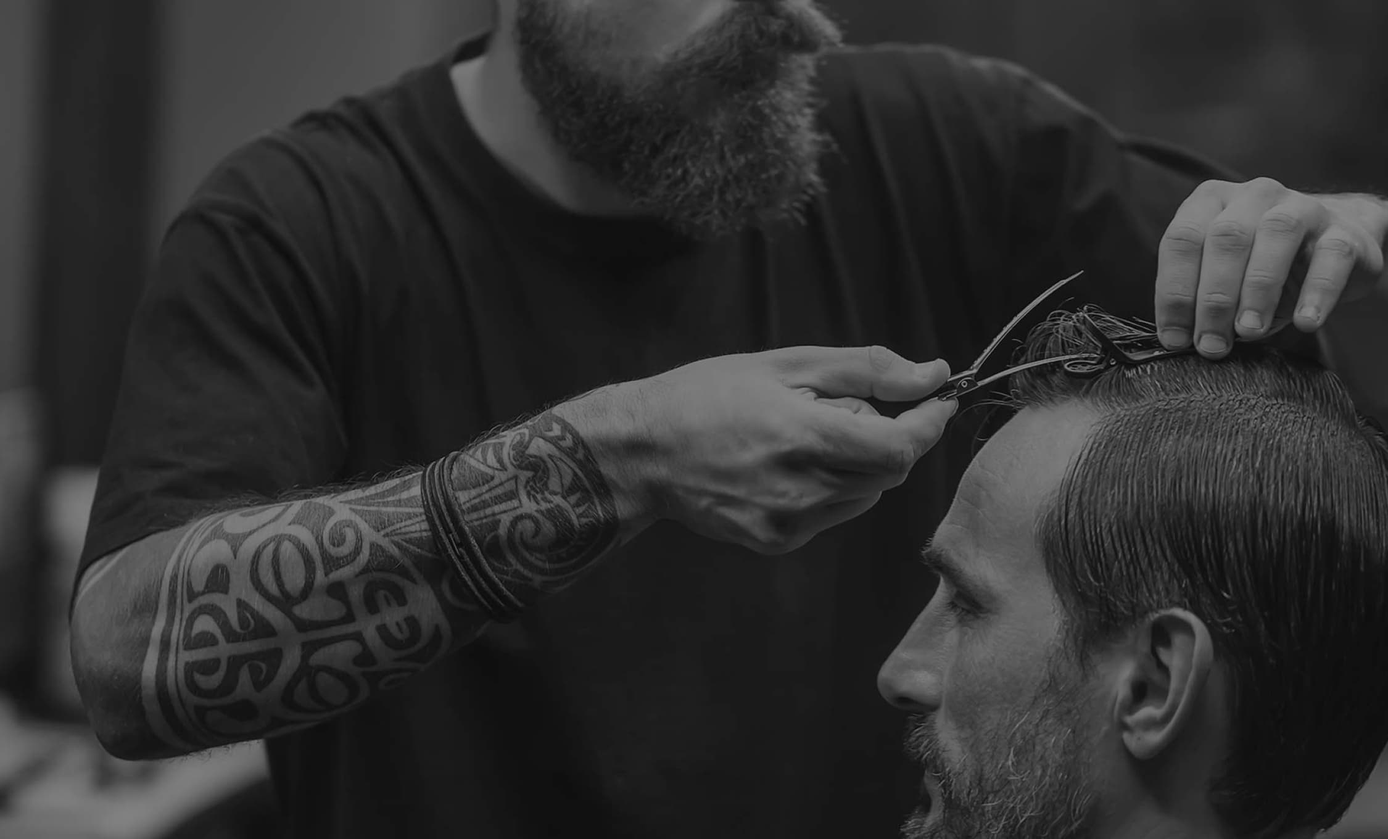
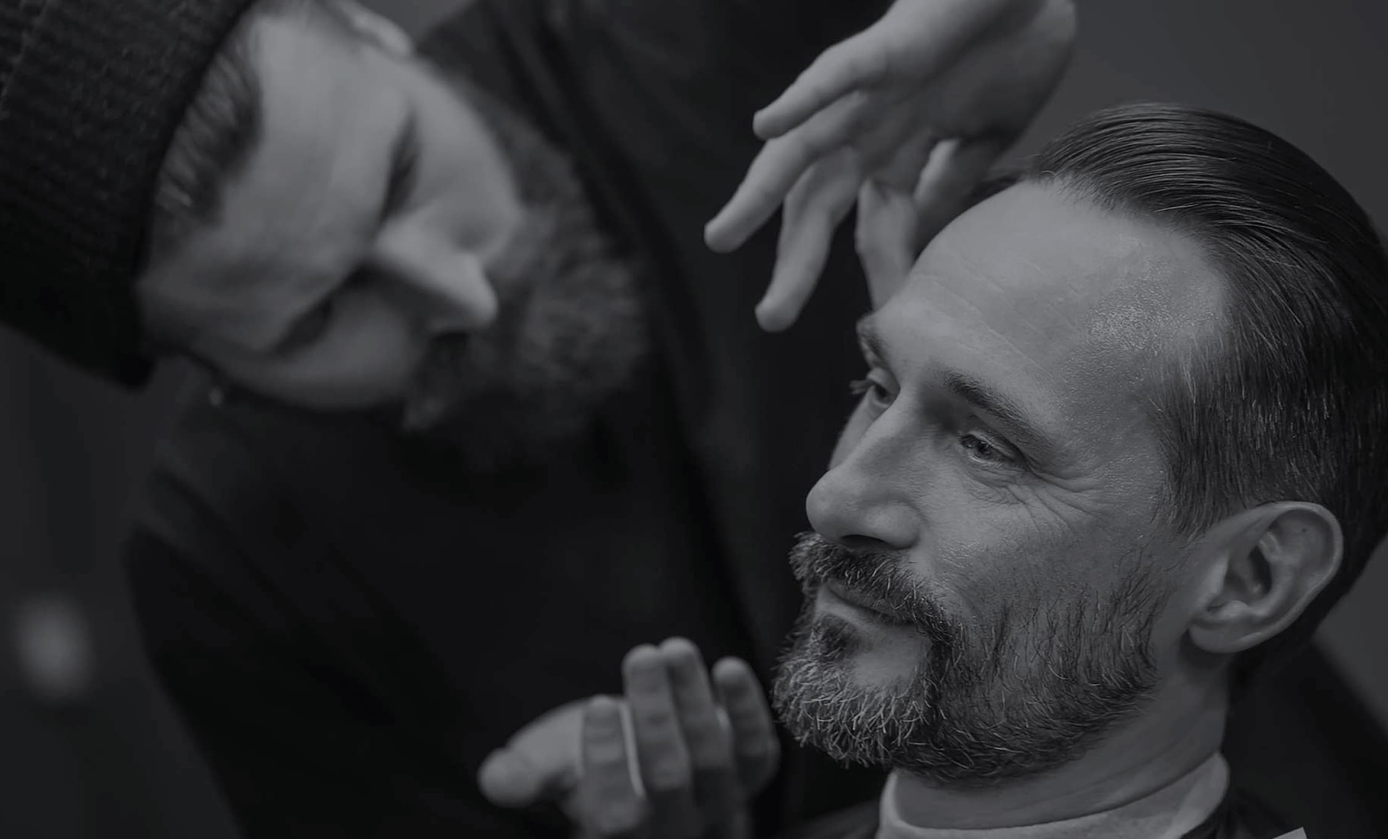
23.02  work

diff --git a/css/main.min.css b/css/main.min.css
@@ -1,1 +1,1 @@
-/*! modern-normalize v1.1.0 | MIT License | https://github.com/sindresorhus/modern-normalize */*,::after,::before{-webkit-box-sizing:border-box;box-sizing:border-box}html{-moz-tab-size:4;-o-tab-size:4;tab-size:4}html{line-height:1.15;-webkit-text-size-adjust:100%}body{margin:0}body{font-family:system-ui,-apple-system,"Segoe UI",Roboto,Helvetica,Arial,sans-serif,"Apple Color Emoji","Segoe UI Emoji"}hr{height:0;color:inherit}abbr[title]{-webkit-text-decoration:underline dotted;text-decoration:underline dotted}b,strong{font-weight:bolder}code,kbd,pre,samp{font-family:ui-monospace,SFMono-Regular,Consolas,"Liberation Mono",Menlo,monospace;font-size:1em}small{font-size:80%}sub,sup{font-size:75%;line-height:0;position:relative;vertical-align:baseline}sub{bottom:-0.25em}sup{top:-0.5em}table{text-indent:0;border-color:inherit}button,input,optgroup,select,textarea{font-family:inherit;font-size:100%;line-height:1.15;margin:0}button,select{text-transform:none}[type=button],[type=reset],[type=submit],button{-webkit-appearance:button}::-moz-focus-inner{border-style:none;padding:0}:-moz-focusring{outline:1px dotted ButtonText}:-moz-ui-invalid{box-shadow:none}legend{padding:0}progress{vertical-align:baseline}::-webkit-inner-spin-button,::-webkit-outer-spin-button{height:auto}[type=search]{-webkit-appearance:textfield;outline-offset:-2px}::-webkit-search-decoration{-webkit-appearance:none}::-webkit-file-upload-button{-webkit-appearance:button;font:inherit}summary{display:list-item}body{background:#fff;color:#555;font-family:"Open Sans",sans-serif;font-style:normal;font-weight:400;letter-spacing:.02em}ul{list-style:none;margin:0;padding:0}a{font-family:inherit;text-decoration:none}button{font-family:inherit;padding:0}h1,h2,h3,h4,p{margin:0}img{display:block}.section{padding:84px 0px}@media screen and (min-width: 720px){.section{padding:100px 0px}}@media screen and (min-width: 1200px){.section{padding:130px 0px}}.container{margin:0px auto;padding:0 15px}@media screen and (min-width: 448px){.container{width:448px}}@media screen and (min-width: 720px){.container{width:720px}}@media screen and (min-width: 1200px){.container{width:1200px}}.tomline{outline:1px solid tomato}.container.header{display:-webkit-box;display:-ms-flexbox;display:flex}.social-container{display:-webkit-box;display:-ms-flexbox;display:flex;-webkit-box-orient:vertical;-webkit-box-direction:normal;-ms-flex-direction:column;flex-direction:column;-webkit-box-align:center;-ms-flex-align:center;align-items:center;padding-right:30px;width:100px}.logo{margin-top:32px;margin-bottom:282px}.social-list{position:relative;display:-webkit-box;display:-ms-flexbox;display:flex;gap:40px}.social-list--vertical{-webkit-box-orient:vertical;-webkit-box-direction:normal;-ms-flex-direction:column;flex-direction:column;rotate:-180deg}.social-list__item:first-child::before{content:" ";position:absolute;display:inline-block;background-color:#303030}.social-list__item--vertical:first-child::before{width:1px;height:60px;right:7px;top:-100px}.social-list__link{font-weight:600;font-size:11px;line-height:1.36;letter-spacing:.2em;-webkit-transition:color 200ms;transition:color 200ms;color:#303030}.social-list__link:hover,.social-list__link:focus{color:#ff6c00}.social-list__link--vertical{-webkit-writing-mode:vertical-lr;-ms-writing-mode:tb-lr;writing-mode:vertical-lr}.hero-container{position:relative;width:1070px;height:680px;padding:40px 0px 40px 40px}.slider{top:0;left:0;position:absolute;z-index:-1}.header-nav{display:-webkit-box;display:-ms-flexbox;display:flex;-webkit-box-align:baseline;-ms-flex-align:baseline;align-items:baseline;margin-bottom:192px}.nav-list{display:-webkit-box;display:-ms-flexbox;display:flex;gap:40px}.nav-list__link{color:#fff;-webkit-transition:color 200ms;transition:color 200ms}.nav-list__link:hover,.nav-list__link:focus{color:#ff6c00}.contacts{display:-webkit-box;display:-ms-flexbox;display:flex;-webkit-box-align:baseline;-ms-flex-align:baseline;align-items:baseline;gap:40px;margin-left:auto}.header__tel{color:#fff;-webkit-transition:color 200ms;transition:color 200ms}.header__tel:hover,.header__tel:focus{color:#ff6c00}.button{display:block;width:160px;height:40px;padding:12px 23px;color:#fff;background-color:rgba(0,0,0,0);font-weight:600;font-size:12px;line-height:1.33;text-transform:uppercase;letter-spacing:.09em;border:1px solid #ff6c00;border-radius:25px;-webkit-transition:background-color 200ms,color 200ms;transition:background-color 200ms,color 200ms}.button:hover,.button:focus{background-color:#ff6c00}.button--black{color:#303030}.button--black:hover,.button--black:focus{color:#fff}.subtitle{font-weight:600;font-size:11px;line-height:1.36;letter-spacing:.1em;text-transform:uppercase;color:#303030}.subtitle:before{position:absolute;content:" ";top:6px;left:-80px;width:60px;height:1px;background-color:#303030}.subtitle--grey{color:rgba(157,164,189,.6)}.subtitle--grey:before{background-color:rgba(157,164,189,.6)}.subtitle--white{color:#fff}.subtitle--white:before{background-color:rgba(157,164,189,.6)}.header__subtitle{position:relative;margin-left:140px;margin-bottom:20px}.header__hero{margin-left:60px;margin-bottom:20px;font-family:"Raleway";font-style:normal;font-weight:700;font-size:72px;line-height:1.18;letter-spacing:.05em;color:#fff}.header__slogan{margin-left:60px;margin-bottom:142px;font-weight:400;font-size:18px;line-height:1.67;letter-spacing:.02em;color:#9da4bd}.header-buttons{display:-webkit-box;display:-ms-flexbox;display:flex;-webkit-box-pack:end;-ms-flex-pack:end;justify-content:end;gap:26px}.slider__button{width:60px;padding-bottom:8px;font-weight:600;font-size:11px;line-height:1.36;letter-spacing:.1em;text-align:start;color:rgba(157,164,189,.6);background-color:rgba(0,0,0,0);border:none;border-bottom:1px solid rgba(157,164,189,.6);cursor:pointer}.slider__button:hover,.slider__button:focus{border-bottom:1px solid #fff;color:#fff}.slider__button--right{text-align:end}.container__aboute{display:-webkit-box;display:-ms-flexbox;display:flex;gap:64px}.foto-block{display:-webkit-box;display:-ms-flexbox;display:flex;gap:30px}@media screen and (max-width: 719px){.foto-block{display:none}}@media screen and (min-width: 720px){.foto-block{-webkit-box-orient:vertical;-webkit-box-direction:normal;-ms-flex-direction:column;flex-direction:column}}@media screen and (min-width: 1200px){.foto-block{-webkit-box-orient:horizontal;-webkit-box-direction:normal;-ms-flex-direction:row;flex-direction:row}}.aboute__subtitle{position:relative;margin-bottom:20px;margin-left:80px}.section-title{margin-bottom:20px;font-family:"Raleway";font-style:normal;font-weight:700;font-size:41px;line-height:1.17;letter-spacing:.05em;color:#303030}@media screen and (max-width: 1199px){.section-title--small{font-size:23px}}.section-title--invisible{position:absolute;width:1px;height:1px;margin:-1px;border:0;padding:0;white-space:nowrap;-webkit-clip-path:inset(100%);clip-path:inset(100%);clip:rect(0 0 0 0);overflow:hidden}.section-title--white{color:#fff}.title{margin-bottom:20px;font-size:16px;line-height:1.62;letter-spacing:.02em}@media screen and (min-width: 1200px){.title{font-size:18px;line-height:1.67}}.content{margin-bottom:40px}.foto_block{display:-webkit-box;display:-ms-flexbox;display:flex}.content{max-width:500px;font-size:14px;line-height:1.86;letter-spacing:.02em}.section-price{margin-left:auto;margin-right:auto;background-color:#111319;background-position:center;background-size:cover;background-repeat:no-repeat}@media screen and (max-width: 448px){.section-price{max-width:448px;background-image:url(../img/bgprice-480.png);background-image:-webkit-image-set(url(../img/bgprice-480.png) 1x, url(../img/bgprice-480@2x.png) 2x);background-image:image-set(url(../img/bgprice-480.png) 1x, url(../img/bgprice-480@2x.png) 2x)}}@media screen and (min-width: 449px)and (max-width: 720px){.section-price{max-width:768px;background-image:url(../img/bgprice-768.png);background-image:-webkit-image-set(url(../img/bgprice-768.png) 1x, url(../img/bgprice-768@2x.png) 2x);background-image:image-set(url(../img/bgprice-768.png) 1x, url(../img/bgprice-768@2x.png) 2x)}}@media screen and (min-width: 721px){.section-price{max-width:1280px;background-image:url(../img/bgprice-1280.png);background-image:-webkit-image-set(url(../img/bgprice-1280.png) 1x, url(../img/bgprice-1280@2x.png) 2x);background-image:image-set(url(../img/bgprice-1280.png) 1x, url(../img/bgprice-1280@2x.png) 2x)}}.section-price__subtitle{position:relative;margin-left:80px;margin-bottom:20px}.section-price__section-title{margin-bottom:40px}.price{display:-webkit-box;display:-ms-flexbox;display:flex;-webkit-box-orient:vertical;-webkit-box-direction:normal;-ms-flex-direction:column;flex-direction:column;margin-bottom:50px}@media screen and (max-width: 1199px){.price{padding:30px 40px;background-image:-webkit-gradient(linear, left top, left bottom, from(#171a24), to(rgba(23, 26, 36, 0.2)));background-image:linear-gradient(180deg, #171a24 0%, rgba(23, 26, 36, 0.2) 100%)}}@media screen and (min-width: 1200px){.price{-webkit-box-orient:horizontal;-webkit-box-direction:normal;-ms-flex-direction:row;flex-direction:row}}@media screen and (min-width: 1200px){.price-list{background:-webkit-gradient(linear, left top, left bottom, from(#171a24), to(rgba(23, 26, 36, 0.2)));background:linear-gradient(180deg, #171a24 0%, rgba(23, 26, 36, 0.2) 100%);width:585px;height:240px;padding:30px 40px}}@media screen and (max-width: 1199px){.price-list--second{margin-top:20px}}@media screen and (min-width: 1200px){.price-list--second{background:-webkit-gradient(linear, left top, left bottom, from(#090b13), to(rgba(9, 11, 19, 0.2)));background:linear-gradient(180deg, #090b13 0%, rgba(9, 11, 19, 0.2) 100%)}}.price-list__item{display:-webkit-box;display:-ms-flexbox;display:flex;font-size:14px;line-height:2.14;letter-spacing:.02em;color:#9da4bd}@media screen and (min-width: 720px){.price-list__item{font-size:18px;line-height:1.67}}.price-list__item+.price-list__item{margin-top:20px}.price-list__line{display:inline-block;-webkit-box-flex:2;-ms-flex-positive:2;flex-grow:2;-ms-flex-item-align:end;align-self:flex-end;margin-bottom:5px;border-color:rgba(157,164,189,.12)}.section-price__button{margin:0 auto}.container-advance{display:-webkit-box;display:-ms-flexbox;display:flex;-webkit-box-orient:vertical;-webkit-box-direction:reverse;-ms-flex-direction:column-reverse;flex-direction:column-reverse}@media screen and (min-width: 1200px){.container-advance{-webkit-box-orient:horizontal;-webkit-box-direction:normal;-ms-flex-direction:row;flex-direction:row;gap:130px}}.advance-list{display:-webkit-box;display:-ms-flexbox;display:flex;gap:30px;width:370px;-ms-flex-wrap:wrap;flex-wrap:wrap}@media screen and (max-width: 719px){.advance-list{margin:0 auto}}@media screen and (min-width: 720px)and (max-width: 1199px){.advance-list{-ms-flex-item-align:end;align-self:flex-end}}@media screen and (min-width: 1200px){.advance-list{margin-left:100px}}.advance-list__item{width:170px;height:133px;padding:20px 24px;font-weight:600;font-size:11px;line-height:1.36;text-align:center;color:#303030;background-color:#f7f7f7}.advance-list__item:nth-child(2n){position:relative;top:35px}.advance-list__span{display:block;font-weight:700;font-size:42px;line-height:1.36;text-align:center;letter-spacing:.05em;color:#303030}.advance-list__plus{font-size:16px;color:#ff6c00;vertical-align:20px}@media screen and (max-width: 1199px){.advance-content{margin-bottom:44px}}.advance-content__subtitle{margin-left:80px;margin-bottom:20px;position:relative}.advance-content__section-title{margin-bottom:20px}.advance__title{margin-bottom:0;max-width:500px}.section-masters{background-color:#f7f7f7}.team-subtitle{position:relative;margin-left:80px;margin-bottom:20px}.section-title--margin{margin-bottom:44px}.team-list{display:-webkit-box;display:-ms-flexbox;display:flex;-webkit-box-orient:vertical;-webkit-box-direction:normal;-ms-flex-direction:column;flex-direction:column;gap:64px}@media screen and (min-width: 1200px){.team-list{-webkit-box-orient:horizontal;-webkit-box-direction:normal;-ms-flex-direction:row;flex-direction:row;gap:30px}}.team-list__item{display:-webkit-box;display:-ms-flexbox;display:flex;-webkit-box-orient:vertical;-webkit-box-direction:normal;-ms-flex-direction:column;flex-direction:column;-webkit-box-align:center;-ms-flex-align:center;align-items:center}.team-list__foto{width:100%;margin-bottom:30px}.team-list__name{margin-bottom:8px;font-size:18px;line-height:1.39;text-align:center;letter-spacing:.02em;color:#303030}.team-list__prof{margin-bottom:30px;font-size:14px;line-height:1.36;text-align:center;letter-spacing:.02em;color:#ff6c00}.social-links{display:-webkit-box;display:-ms-flexbox;display:flex;gap:10px}.social-links__link{display:-webkit-inline-box;display:-ms-inline-flexbox;display:inline-flex;-webkit-box-pack:center;-ms-flex-pack:center;justify-content:center;-webkit-box-align:center;-ms-flex-align:center;align-items:center;width:44px;height:44px;border-radius:50%;background-color:#fff}.social-links__icon{fill:#303030;-webkit-transition:fill 200ms;transition:fill 200ms}.social-links__link:hover .social-links__icon,.social-links__link:focus .social-links__icon{fill:#ff6c00}.works-subtitle{position:relative;margin-left:80px;margin-bottom:20px}.work-list{display:-webkit-box;display:-ms-flexbox;display:flex;gap:30px;-ms-flex-wrap:wrap;flex-wrap:wrap}.work-list__foto{width:100%}footer{background-color:#191c26}.footer-background{padding:0;background-size:contain;background-repeat:no-repeat}@media screen and (min-width: 1200px){.footer-background{background-position:51vw;background-image:url(../img/bgfooter-625.png);background-image:-webkit-image-set(url(../img/bgfooter-625.png) 1x, url(../img/bgfooter-625@2x.png) 2x);background-image:image-set(url(../img/bgfooter-625.png) 1x, url(../img/bgfooter-625@2x.png) 2x)}}.footer-container{display:-webkit-box;display:-ms-flexbox;display:flex;-webkit-box-orient:vertical;-webkit-box-direction:normal;-ms-flex-direction:column;flex-direction:column;padding:0}@media screen and (min-width: 448px){.footer-container{width:100%}}@media screen and (min-width: 1200px){.footer-container{width:1200px;margin:0 auto;padding:0 15px;-webkit-box-orient:horizontal;-webkit-box-direction:normal;-ms-flex-direction:row;flex-direction:row;gap:40px}}.footer-section:last-child{background-size:cover;background-repeat:no-repeat}@media screen and (max-width: 719px){.footer-section:last-child{background-image:url(../img/bgfooter-480.png);background-image:-webkit-image-set(url(../img/bgfooter-480.png) 1x, url(../img/bgfooter-480@2x.png) 2x);background-image:image-set(url(../img/bgfooter-480.png) 1x, url(../img/bgfooter-480@2x.png) 2x)}}@media screen and (min-width: 720px)and (max-width: 1199px){.footer-section:last-child{background-image:url(../img/bgfooter-768.png);background-image:-webkit-image-set(url(../img/bgfooter-768.png) 1x, url(../img/bgfooter-768@2x.png) 2x);background-image:image-set(url(../img/bgfooter-768.png) 1x, url(../img/bgfooter-768@2x.png) 2x)}}@media screen and (min-width: 1200px){.footer-section__container{width:100%;padding:0}}.data-form{width:100%}@media screen and (min-width: 1200px){.data-form{width:560px}}.data-form__form-field{position:relative;display:inline-block;width:100%;margin-bottom:44px}@media screen and (min-width: 720px){.data-form__form-field{width:330px}.data-form__form-field+.data-form__form-field{margin-left:30px}}@media screen and (min-width: 1200px){.data-form__form-field{width:260px}}.data-form__input{width:100%;color:#fff;background-color:rgba(0,0,0,0);outline:none;border:none;border-bottom:1px solid rgba(157,164,189,.4);cursor:pointer}.data-form__input:hover,.data-form__input:focus{border-bottom:1px solid #fff}.data-form__label{position:absolute;top:0;left:2px;font-weight:600;font-size:11px;line-height:1.36;letter-spacing:.1em;text-transform:uppercase;color:rgba(157,164,189,.4);-webkit-transition:opacity 200ms,color 200ms;transition:opacity 200ms,color 200ms}.data-form__input:hover+.data-form__label{color:#fff}.data-form__input:focus+.data-form__label{opacity:0}.data-form__input:not(:-moz-placeholder-shown)+.data-form__label{opacity:0}.data-form__input:not(:-ms-input-placeholder)+.data-form__label{opacity:0}.data-form__input:not(:placeholder-shown)+.data-form__label{opacity:0}.data-form__form-field-message{margin-bottom:44px}.data-form__message{width:100%;resize:none;color:#fff;background-color:rgba(0,0,0,0);outline:none;border:none;border-bottom:1px solid rgba(157,164,189,.4);cursor:pointer;-webkit-transition:border-color 200ms;transition:border-color 200ms}.data-form__message:hover,.data-form__message:focus{border-bottom:1px solid #fff}.data-form__message-label{display:block;font-weight:600;font-size:11px;line-height:1.36;letter-spacing:.1em;text-transform:uppercase;color:rgba(157,164,189,.4);-webkit-transition:color 200ms;transition:color 200ms}.data-form__message-label:hover,.data-form__message-label:focus{color:#fff}@media screen and (max-width: 719px){.data-form__button{margin:0 auto}}@media screen and (max-width: 1199px){.data-location{width:100%}}@media screen and (min-width: 1200px){.data-location{margin-left:100px}}@media screen and (min-width: 720px)and (max-width: 1199px){.data-location__block{display:-webkit-box;display:-ms-flexbox;display:flex;gap:110px}}.address{display:-webkit-box;display:-ms-flexbox;display:flex;-webkit-box-orient:vertical;-webkit-box-direction:normal;-ms-flex-direction:column;flex-direction:column;-webkit-box-align:start;-ms-flex-align:start;align-items:flex-start}@media screen and (max-width: 719px){.address{margin-bottom:40px}}@media screen and (min-width: 1200px){.address{margin-bottom:70px}}.address__item{position:relative;margin-left:40px;font-style:normal;font-size:18px;line-height:1.67;letter-spacing:.02em;color:#9da4bd;-webkit-transition:color 200ms;transition:color 200ms}.address__item:hover,.address__item:focus{color:#fff}.address__item+.address__item{margin-top:20px}@media screen and (min-width: 720px){.address__item:first-child{width:200px}}.address__item:last-child{text-decoration:underline}.address__icon{position:absolute;top:5px;left:-44px}.address__item:hover .address__icon{--color1: white}.work-time__subtitle{position:relative;display:inline-block;margin-left:80px;margin-bottom:20px}.timetable{font-style:normal;font-size:18px;line-height:1.67;letter-spacing:.02em;color:#9da4bd}.bottom-line{background-color:#fff;padding:56px 0}@media screen and (max-width: 719px){.bottom-line{padding:44px 0;height:138px}}.bottom-line__container{display:-webkit-box;display:-ms-flexbox;display:flex;-webkit-box-pack:justify;-ms-flex-pack:justify;justify-content:space-between;-webkit-box-align:center;-ms-flex-align:center;align-items:center}.copyright{font-weight:600;font-size:11px;line-height:1.36;letter-spacing:.2em;color:#9da4bd;-ms-flex-item-align:end;align-self:flex-end}.footer-social-list__item:first-child::before{top:10px;left:-100px;width:60px;height:1px;-ms-flex-item-align:start;align-self:flex-start}/*# sourceMappingURL=main.min.css.map */
+/*! modern-normalize v1.1.0 | MIT License | https://github.com/sindresorhus/modern-normalize */*,::after,::before{-webkit-box-sizing:border-box;box-sizing:border-box}html{-moz-tab-size:4;-o-tab-size:4;tab-size:4}html{line-height:1.15;-webkit-text-size-adjust:100%}body{margin:0}body{font-family:system-ui,-apple-system,"Segoe UI",Roboto,Helvetica,Arial,sans-serif,"Apple Color Emoji","Segoe UI Emoji"}hr{height:0;color:inherit}abbr[title]{-webkit-text-decoration:underline dotted;text-decoration:underline dotted}b,strong{font-weight:bolder}code,kbd,pre,samp{font-family:ui-monospace,SFMono-Regular,Consolas,"Liberation Mono",Menlo,monospace;font-size:1em}small{font-size:80%}sub,sup{font-size:75%;line-height:0;position:relative;vertical-align:baseline}sub{bottom:-0.25em}sup{top:-0.5em}table{text-indent:0;border-color:inherit}button,input,optgroup,select,textarea{font-family:inherit;font-size:100%;line-height:1.15;margin:0}button,select{text-transform:none}[type=button],[type=reset],[type=submit],button{-webkit-appearance:button}::-moz-focus-inner{border-style:none;padding:0}:-moz-focusring{outline:1px dotted ButtonText}:-moz-ui-invalid{box-shadow:none}legend{padding:0}progress{vertical-align:baseline}::-webkit-inner-spin-button,::-webkit-outer-spin-button{height:auto}[type=search]{-webkit-appearance:textfield;outline-offset:-2px}::-webkit-search-decoration{-webkit-appearance:none}::-webkit-file-upload-button{-webkit-appearance:button;font:inherit}summary{display:list-item}body{background:#fff;color:#555;font-family:"Open Sans",sans-serif;font-style:normal;font-weight:400;letter-spacing:.02em}ul{list-style:none;margin:0;padding:0}a{font-family:inherit;text-decoration:none}button{font-family:inherit;padding:0}h1,h2,h3,h4,p{margin:0}img{display:block}.section{padding:84px 0px}@media screen and (min-width: 720px){.section{padding:100px 0px}}@media screen and (min-width: 1200px){.section{padding:130px 0px}}.container{margin:0px auto;padding:0 15px}@media screen and (min-width: 448px){.container{width:448px}}@media screen and (min-width: 720px){.container{width:720px}}@media screen and (min-width: 1200px){.container{width:1200px}}.tomline{outline:1px solid tomato}.container.header{display:-webkit-box;display:-ms-flexbox;display:flex}.social-container{display:-webkit-box;display:-ms-flexbox;display:flex;-webkit-box-orient:vertical;-webkit-box-direction:normal;-ms-flex-direction:column;flex-direction:column;-webkit-box-align:center;-ms-flex-align:center;align-items:center;padding-right:30px;width:100px}.logo{margin-top:32px;margin-bottom:282px}.social-list{position:relative;display:-webkit-box;display:-ms-flexbox;display:flex;gap:40px}.social-list--vertical{-webkit-box-orient:vertical;-webkit-box-direction:normal;-ms-flex-direction:column;flex-direction:column;rotate:-180deg}.social-list__item:first-child::before{content:" ";position:absolute;display:inline-block;background-color:#303030}.social-list__item--vertical:first-child::before{width:1px;height:60px;right:7px;top:-100px}.social-list__link{font-weight:600;font-size:11px;line-height:1.36;letter-spacing:.2em;-webkit-transition:color 200ms;transition:color 200ms;color:#303030}.social-list__link:hover,.social-list__link:focus{color:#ff6c00}.social-list__link--vertical{-webkit-writing-mode:vertical-lr;-ms-writing-mode:tb-lr;writing-mode:vertical-lr}.hero-container{position:relative;width:1070px;min-height:680px;padding:40px 0px 40px 40px;background-color:rgba(25,28,38,.2)}@media screen and (min-wdth: 720px){.hero-container{height:680px}}.hero-container .slider{position:absolute;top:0;left:0;z-index:-1;overflow:visible}.header-nav{display:-webkit-box;display:-ms-flexbox;display:flex;-webkit-box-align:baseline;-ms-flex-align:baseline;align-items:baseline;margin-bottom:192px}.nav-list{display:-webkit-box;display:-ms-flexbox;display:flex;gap:40px}.nav-list__link{color:#fff;-webkit-transition:color 200ms;transition:color 200ms}.nav-list__link:hover,.nav-list__link:focus{color:#ff6c00}.contacts{display:-webkit-box;display:-ms-flexbox;display:flex;-webkit-box-align:baseline;-ms-flex-align:baseline;align-items:baseline;gap:40px;margin-left:auto}.header__tel{color:#fff;-webkit-transition:color 200ms;transition:color 200ms}.header__tel:hover,.header__tel:focus{color:#ff6c00}.button{display:block;width:160px;height:40px;padding:12px 23px;color:#fff;background-color:rgba(0,0,0,0);font-weight:600;font-size:12px;line-height:1.33;text-transform:uppercase;letter-spacing:.09em;border:1px solid #ff6c00;border-radius:25px;-webkit-transition:background-color 200ms,color 200ms;transition:background-color 200ms,color 200ms}.button:hover,.button:focus{background-color:#ff6c00}.button--black{color:#303030}.button--black:hover,.button--black:focus{color:#fff}.subtitle{font-weight:600;font-size:11px;line-height:1.36;letter-spacing:.1em;text-transform:uppercase;color:#303030}.subtitle:before{position:absolute;content:" ";top:6px;left:-80px;width:60px;height:1px;background-color:#303030}.subtitle--grey{color:rgba(157,164,189,.6)}.subtitle--grey:before{background-color:rgba(157,164,189,.6)}.subtitle--white{color:#fff}.subtitle--white:before{background-color:rgba(157,164,189,.6)}.header__subtitle{position:relative;margin-left:140px;margin-bottom:20px}.header__hero{margin-left:60px;margin-bottom:20px;font-family:"Raleway";font-style:normal;font-weight:700;font-size:72px;line-height:1.18;letter-spacing:.05em;color:#fff}.header__slogan{margin-left:60px;margin-bottom:142px;font-weight:400;font-size:18px;line-height:1.67;letter-spacing:.02em;color:#9da4bd}.header-buttons{display:-webkit-box;display:-ms-flexbox;display:flex;-webkit-box-pack:end;-ms-flex-pack:end;justify-content:end;gap:26px}.slider__button{width:60px;padding-bottom:8px;font-weight:600;font-size:11px;line-height:1.36;letter-spacing:.1em;text-align:start;color:rgba(157,164,189,.6);background-color:rgba(0,0,0,0);border:none;border-bottom:1px solid rgba(157,164,189,.6);cursor:pointer}.slider__button:hover,.slider__button:focus{border-bottom:1px solid #fff;color:#fff}.slider__button--right{text-align:end}.container__aboute{display:-webkit-box;display:-ms-flexbox;display:flex;gap:64px}.foto-block{display:-webkit-box;display:-ms-flexbox;display:flex;gap:30px}@media screen and (max-width: 719px){.foto-block{display:none}}@media screen and (min-width: 720px){.foto-block{-webkit-box-orient:vertical;-webkit-box-direction:normal;-ms-flex-direction:column;flex-direction:column}}@media screen and (min-width: 1200px){.foto-block{-webkit-box-orient:horizontal;-webkit-box-direction:normal;-ms-flex-direction:row;flex-direction:row}}.aboute__subtitle{position:relative;margin-bottom:20px;margin-left:80px}.section-title{margin-bottom:20px;font-family:"Raleway";font-style:normal;font-weight:700;font-size:41px;line-height:1.17;letter-spacing:.05em;color:#303030}@media screen and (max-width: 1199px){.section-title--small{font-size:23px}}.section-title--invisible{position:absolute;width:1px;height:1px;margin:-1px;border:0;padding:0;white-space:nowrap;-webkit-clip-path:inset(100%);clip-path:inset(100%);clip:rect(0 0 0 0);overflow:hidden}.section-title--white{color:#fff}.title{margin-bottom:20px;font-size:16px;line-height:1.62;letter-spacing:.02em}@media screen and (min-width: 1200px){.title{font-size:18px;line-height:1.67}}.content{margin-bottom:40px}.foto_block{display:-webkit-box;display:-ms-flexbox;display:flex}.content{max-width:500px;font-size:14px;line-height:1.86;letter-spacing:.02em}.section-price{margin-left:auto;margin-right:auto;background-color:#111319;background-position:center;background-size:cover;background-repeat:no-repeat}@media screen and (max-width: 448px){.section-price{max-width:448px;background-image:url(../img/bgprice-480.png);background-image:-webkit-image-set(url(../img/bgprice-480.png) 1x, url(../img/bgprice-480@2x.png) 2x);background-image:image-set(url(../img/bgprice-480.png) 1x, url(../img/bgprice-480@2x.png) 2x)}}@media screen and (min-width: 449px)and (max-width: 720px){.section-price{max-width:768px;background-image:url(../img/bgprice-768.png);background-image:-webkit-image-set(url(../img/bgprice-768.png) 1x, url(../img/bgprice-768@2x.png) 2x);background-image:image-set(url(../img/bgprice-768.png) 1x, url(../img/bgprice-768@2x.png) 2x)}}@media screen and (min-width: 721px){.section-price{max-width:1280px;background-image:url(../img/bgprice-1280.png);background-image:-webkit-image-set(url(../img/bgprice-1280.png) 1x, url(../img/bgprice-1280@2x.png) 2x);background-image:image-set(url(../img/bgprice-1280.png) 1x, url(../img/bgprice-1280@2x.png) 2x)}}.section-price__subtitle{position:relative;margin-left:80px;margin-bottom:20px}.section-price__section-title{margin-bottom:40px}.price{display:-webkit-box;display:-ms-flexbox;display:flex;-webkit-box-orient:vertical;-webkit-box-direction:normal;-ms-flex-direction:column;flex-direction:column;margin-bottom:50px}@media screen and (max-width: 1199px){.price{padding:30px 40px;background-image:-webkit-gradient(linear, left top, left bottom, from(#171a24), to(rgba(23, 26, 36, 0.2)));background-image:linear-gradient(180deg, #171a24 0%, rgba(23, 26, 36, 0.2) 100%)}}@media screen and (min-width: 1200px){.price{-webkit-box-orient:horizontal;-webkit-box-direction:normal;-ms-flex-direction:row;flex-direction:row}}@media screen and (min-width: 1200px){.price-list{background:-webkit-gradient(linear, left top, left bottom, from(#171a24), to(rgba(23, 26, 36, 0.2)));background:linear-gradient(180deg, #171a24 0%, rgba(23, 26, 36, 0.2) 100%);width:585px;height:240px;padding:30px 40px}}@media screen and (max-width: 1199px){.price-list--second{margin-top:20px}}@media screen and (min-width: 1200px){.price-list--second{background:-webkit-gradient(linear, left top, left bottom, from(#090b13), to(rgba(9, 11, 19, 0.2)));background:linear-gradient(180deg, #090b13 0%, rgba(9, 11, 19, 0.2) 100%)}}.price-list__item{display:-webkit-box;display:-ms-flexbox;display:flex;font-size:14px;line-height:2.14;letter-spacing:.02em;color:#9da4bd}@media screen and (min-width: 720px){.price-list__item{font-size:18px;line-height:1.67}}.price-list__item+.price-list__item{margin-top:20px}.price-list__line{display:inline-block;-webkit-box-flex:2;-ms-flex-positive:2;flex-grow:2;-ms-flex-item-align:end;align-self:flex-end;margin-bottom:5px;border-color:rgba(157,164,189,.12)}.section-price__button{margin:0 auto}.container-advance{display:-webkit-box;display:-ms-flexbox;display:flex;-webkit-box-orient:vertical;-webkit-box-direction:reverse;-ms-flex-direction:column-reverse;flex-direction:column-reverse}@media screen and (min-width: 1200px){.container-advance{-webkit-box-orient:horizontal;-webkit-box-direction:normal;-ms-flex-direction:row;flex-direction:row;gap:130px}}.advance-list{display:-webkit-box;display:-ms-flexbox;display:flex;gap:30px;width:370px;-ms-flex-wrap:wrap;flex-wrap:wrap}@media screen and (max-width: 719px){.advance-list{margin:0 auto}}@media screen and (min-width: 720px)and (max-width: 1199px){.advance-list{-ms-flex-item-align:end;align-self:flex-end}}@media screen and (min-width: 1200px){.advance-list{margin-left:100px}}.advance-list__item{width:170px;height:133px;padding:20px 24px;font-weight:600;font-size:11px;line-height:1.36;text-align:center;color:#303030;background-color:#f7f7f7}.advance-list__item:nth-child(2n){position:relative;top:35px}.advance-list__span{display:block;font-weight:700;font-size:42px;line-height:1.36;text-align:center;letter-spacing:.05em;color:#303030}.advance-list__plus{font-size:16px;color:#ff6c00;vertical-align:20px}@media screen and (max-width: 1199px){.advance-content{margin-bottom:44px}}.advance-content__subtitle{margin-left:80px;margin-bottom:20px;position:relative}.advance-content__section-title{margin-bottom:20px}.advance__title{margin-bottom:0;max-width:500px}.section-masters{background-color:#f7f7f7}.team-subtitle{position:relative;margin-left:80px;margin-bottom:20px}.section-title--margin{margin-bottom:44px}.team-list{display:-webkit-box;display:-ms-flexbox;display:flex;-webkit-box-orient:vertical;-webkit-box-direction:normal;-ms-flex-direction:column;flex-direction:column;gap:64px}@media screen and (min-width: 1200px){.team-list{-webkit-box-orient:horizontal;-webkit-box-direction:normal;-ms-flex-direction:row;flex-direction:row;gap:30px}}.team-list__item{display:-webkit-box;display:-ms-flexbox;display:flex;-webkit-box-orient:vertical;-webkit-box-direction:normal;-ms-flex-direction:column;flex-direction:column;-webkit-box-align:center;-ms-flex-align:center;align-items:center}.team-list__foto{width:100%;margin-bottom:30px}.team-list__name{margin-bottom:8px;font-size:18px;line-height:1.39;text-align:center;letter-spacing:.02em;color:#303030}.team-list__prof{margin-bottom:30px;font-size:14px;line-height:1.36;text-align:center;letter-spacing:.02em;color:#ff6c00}.social-links{display:-webkit-box;display:-ms-flexbox;display:flex;gap:10px}.social-links__link{display:-webkit-inline-box;display:-ms-inline-flexbox;display:inline-flex;-webkit-box-pack:center;-ms-flex-pack:center;justify-content:center;-webkit-box-align:center;-ms-flex-align:center;align-items:center;width:44px;height:44px;border-radius:50%;background-color:#fff}.social-links__icon{fill:#303030;-webkit-transition:fill 200ms;transition:fill 200ms}.social-links__link:hover .social-links__icon,.social-links__link:focus .social-links__icon{fill:#ff6c00}.works-subtitle{position:relative;margin-left:80px;margin-bottom:20px}.work-list{display:-webkit-box;display:-ms-flexbox;display:flex;gap:30px;-ms-flex-wrap:wrap;flex-wrap:wrap}.work-list__foto{width:100%}footer{background-color:#191c26}.footer-background{padding:0;background-size:contain;background-repeat:no-repeat}@media screen and (min-width: 1200px){.footer-background{background-position:51vw;background-image:url(../img/bgfooter-625.png);background-image:-webkit-image-set(url(../img/bgfooter-625.png) 1x, url(../img/bgfooter-625@2x.png) 2x);background-image:image-set(url(../img/bgfooter-625.png) 1x, url(../img/bgfooter-625@2x.png) 2x)}}.footer-container{display:-webkit-box;display:-ms-flexbox;display:flex;-webkit-box-orient:vertical;-webkit-box-direction:normal;-ms-flex-direction:column;flex-direction:column;padding:0}@media screen and (min-width: 448px){.footer-container{width:100%}}@media screen and (min-width: 1200px){.footer-container{width:1200px;margin:0 auto;padding:0 15px;-webkit-box-orient:horizontal;-webkit-box-direction:normal;-ms-flex-direction:row;flex-direction:row;gap:40px}}.footer-section:last-child{background-size:cover;background-repeat:no-repeat}@media screen and (max-width: 719px){.footer-section:last-child{background-image:url(../img/bgfooter-480.png);background-image:-webkit-image-set(url(../img/bgfooter-480.png) 1x, url(../img/bgfooter-480@2x.png) 2x);background-image:image-set(url(../img/bgfooter-480.png) 1x, url(../img/bgfooter-480@2x.png) 2x)}}@media screen and (min-width: 720px)and (max-width: 1199px){.footer-section:last-child{background-image:url(../img/bgfooter-768.png);background-image:-webkit-image-set(url(../img/bgfooter-768.png) 1x, url(../img/bgfooter-768@2x.png) 2x);background-image:image-set(url(../img/bgfooter-768.png) 1x, url(../img/bgfooter-768@2x.png) 2x)}}@media screen and (min-width: 1200px){.footer-section__container{width:100%;padding:0}}.data-form{width:100%}@media screen and (min-width: 1200px){.data-form{width:560px}}.data-form__form-field{position:relative;display:inline-block;width:100%;margin-bottom:44px}@media screen and (min-width: 720px){.data-form__form-field{width:330px}.data-form__form-field+.data-form__form-field{margin-left:30px}}@media screen and (min-width: 1200px){.data-form__form-field{width:260px}}.data-form__input{width:100%;color:#fff;background-color:rgba(0,0,0,0);outline:none;border:none;border-bottom:1px solid rgba(157,164,189,.4);cursor:pointer}.data-form__input:hover,.data-form__input:focus{border-bottom:1px solid #fff}.data-form__label{position:absolute;top:0;left:2px;font-weight:600;font-size:11px;line-height:1.36;letter-spacing:.1em;text-transform:uppercase;color:rgba(157,164,189,.4);-webkit-transition:opacity 200ms,color 200ms;transition:opacity 200ms,color 200ms}.data-form__input:hover+.data-form__label{color:#fff}.data-form__input:focus+.data-form__label{opacity:0}.data-form__input:not(:-moz-placeholder-shown)+.data-form__label{opacity:0}.data-form__input:not(:-ms-input-placeholder)+.data-form__label{opacity:0}.data-form__input:not(:placeholder-shown)+.data-form__label{opacity:0}.data-form__form-field-message{margin-bottom:44px}.data-form__message{width:100%;resize:none;color:#fff;background-color:rgba(0,0,0,0);outline:none;border:none;border-bottom:1px solid rgba(157,164,189,.4);cursor:pointer;-webkit-transition:border-color 200ms;transition:border-color 200ms}.data-form__message:hover,.data-form__message:focus{border-bottom:1px solid #fff}.data-form__message-label{display:block;font-weight:600;font-size:11px;line-height:1.36;letter-spacing:.1em;text-transform:uppercase;color:rgba(157,164,189,.4);-webkit-transition:color 200ms;transition:color 200ms}.data-form__message-label:hover,.data-form__message-label:focus{color:#fff}@media screen and (max-width: 719px){.data-form__button{margin:0 auto}}@media screen and (max-width: 1199px){.data-location{width:100%}}@media screen and (min-width: 1200px){.data-location{margin-left:100px}}@media screen and (min-width: 720px)and (max-width: 1199px){.data-location__block{display:-webkit-box;display:-ms-flexbox;display:flex;gap:110px}}.address{display:-webkit-box;display:-ms-flexbox;display:flex;-webkit-box-orient:vertical;-webkit-box-direction:normal;-ms-flex-direction:column;flex-direction:column;-webkit-box-align:start;-ms-flex-align:start;align-items:flex-start}@media screen and (max-width: 719px){.address{margin-bottom:40px}}@media screen and (min-width: 1200px){.address{margin-bottom:70px}}.address__item{position:relative;margin-left:40px;font-style:normal;font-size:18px;line-height:1.67;letter-spacing:.02em;color:#9da4bd;-webkit-transition:color 200ms;transition:color 200ms}.address__item:hover,.address__item:focus{color:#fff}.address__item+.address__item{margin-top:20px}@media screen and (min-width: 720px){.address__item:first-child{width:200px}}.address__item:last-child{text-decoration:underline}.address__icon{position:absolute;top:5px;left:-44px}.address__item:hover .address__icon{--color1: white}.work-time__subtitle{position:relative;display:inline-block;margin-left:80px;margin-bottom:20px}.timetable{font-style:normal;font-size:18px;line-height:1.67;letter-spacing:.02em;color:#9da4bd}.bottom-line{background-color:#fff;padding:56px 0}@media screen and (max-width: 719px){.bottom-line{padding:44px 0;height:138px}}.bottom-line__container{display:-webkit-box;display:-ms-flexbox;display:flex;-webkit-box-pack:justify;-ms-flex-pack:justify;justify-content:space-between}@media screen and (max-width: 719px){.bottom-line__container{height:100%}}@media screen and (min-width: 1200px){.bottom-line__container{-webkit-box-align:center;-ms-flex-align:center;align-items:center}}.copyright{font-weight:600;font-size:11px;line-height:1.36;letter-spacing:.2em;color:#9da4bd;-ms-flex-item-align:end;align-self:flex-end}.footer-social-list__item:first-child::before{top:10px;left:-100px;width:60px;height:1px;-ms-flex-item-align:start;align-self:flex-start}/*# sourceMappingURL=main.min.css.map */

diff --git a/css/main.css b/css/main.css
@@ -294,15 +294,21 @@ img {
 .hero-container {
   position: relative;
   width: 1070px;
-  height: 680px;
+  min-height: 680px;
   padding: 40px 0px 40px 40px;
+  background-color: rgba(25, 28, 38, 0.2);
 }
-
-.slider {
+@media screen and (min-wdth: 720px) {
+  .hero-container {
+    height: 680px;
+  }
+}
+.hero-container .slider {
+  position: absolute;
   top: 0;
   left: 0;
-  position: absolute;
   z-index: -1;
+  overflow: visible;
 }
 
 .header-nav {
@@ -1217,9 +1223,18 @@ footer {
   -webkit-box-pack: justify;
       -ms-flex-pack: justify;
           justify-content: space-between;
-  -webkit-box-align: center;
-      -ms-flex-align: center;
-          align-items: center;
+}
+@media screen and (max-width: 719px) {
+  .bottom-line__container {
+    height: 100%;
+  }
+}
+@media screen and (min-width: 1200px) {
+  .bottom-line__container {
+    -webkit-box-align: center;
+        -ms-flex-align: center;
+            align-items: center;
+  }
 }
 
 .copyright {

diff --git a/sass/components/_page-header.scss b/sass/components/_page-header.scss
@@ -58,18 +58,21 @@
 .hero-container {
   position: relative;
   width: 1070px;
-  height: 680px;
+  min-height: 680px;
   padding: 40px 0px 40px 40px;
-  // background: rgba(25, 28, 38, 0.2);
-  // background-image: url(../img/slider1.jpg);
-  // background-size: cover;
-}
+  background-color: rgba(25, 28, 38, 0.2);
 
-.slider {
-  top: 0;
-  left: 0;
-  position: absolute;
-  z-index: -1;
+  @media screen and (min-wdth: $tablet) {
+    height: 680px;
+  }
+
+  .slider {
+    position: absolute;
+    top: 0;
+    left: 0;
+    z-index: -1;
+    overflow: visible;
+  }
 }
 .header-nav {
   display: flex;
@@ -827,7 +830,7 @@ footer {
   @media screen and (max-width: calc($tablet - 1px)) {
     height: 100%;
   }
-  @media screen and (min-width: $destop) {
+  @media screen and (min-width: $desktop) {
     align-items: center;
   }
 }

diff --git a/index.html b/index.html
@@ -38,7 +38,7 @@
         </div>
         <!-- ************Hero-container********* -->
         <div class="hero-container">
-          <picture>
+          <!-- <picture>
             <source
               srcset="./img/slider1-1125.jpg 1125w, ./img/slider1-1125@2x.jpg 2250w"
               media="(min-width:720px)"
@@ -55,7 +55,8 @@
               sizes="(max-width:480) 480px"
             />
             <img class="slider" src="./img/slider1-1125.jpg" alt="BarberShop" />
-          </picture>
+          </picture> -->
+
           <div class="header-nav">
             <nav>
               <ul class="nav-list">
